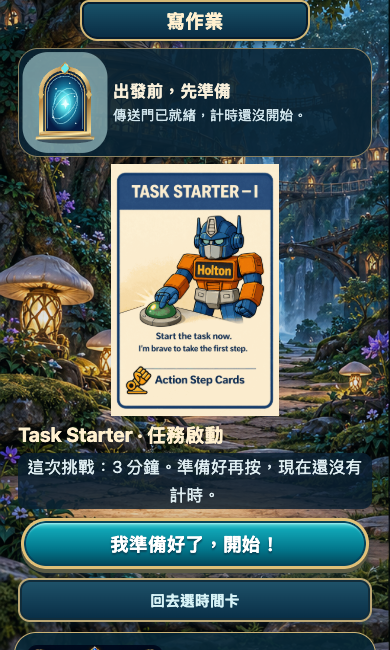
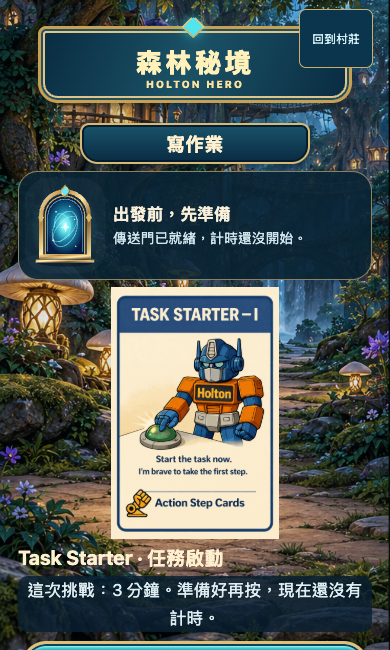
fix(onboarding): confirm skip and retain village resume [actor:bot approval:23140]

diff --git a/src/SpotlightGuide.tsx b/src/SpotlightGuide.tsx
@@ -4,10 +4,10 @@ import AsyncStorage from '@react-native-async-storage/async-storage';
 import {MUSIC_HINT_KEY} from './TaskMusicHint';
 import {createPortal} from 'react-dom';
 export const GUIDE_KEY='holton-guardian-app::spotlight-v1';
-type GuideStore={main:boolean;companions:boolean;wishes:boolean;parent:boolean;companionTap?:boolean;music?:boolean};
-export async function initializeGuide(fresh:boolean,force=false){
+type GuideStore={main:boolean;companions:boolean;wishes:boolean;parent:boolean;companionTap?:boolean;music?:boolean;mainSkipped?:boolean};
+export async function initializeGuide(fresh:boolean,force=false,mainSkipped=false){
  if(force)await AsyncStorage.removeItem(MUSIC_HINT_KEY);
- if(force||!await AsyncStorage.getItem(GUIDE_KEY))await AsyncStorage.setItem(GUIDE_KEY,JSON.stringify({main:!fresh,companions:!fresh,wishes:!fresh,parent:!fresh}));
+ if(force||!await AsyncStorage.getItem(GUIDE_KEY))await AsyncStorage.setItem(GUIDE_KEY,JSON.stringify({main:!fresh,companions:!fresh,wishes:!fresh,parent:!fresh,mainSkipped}));
 }
 type Step={selector:string;text:string;delay?:number;action?:'mission'|'picker';info?:boolean;passThrough?:boolean};
 const companionStep:Step={selector:'[data-testid="guardian-companion"] [data-testid="companion-reaction"]',text:'點點你的夥伴，看看他想跟你說什麼！他會用文字泡泡回應，做任務時也可以點他陪你一下。',delay:1400};
@@ -32,17 +32,21 @@ const rooms:Record<string,Step[]>={
  wishes:[{selector:'[data-testid="wish-guide-card"], [data-testid="wish-guide-empty"]',text:'這是心願卡與需要的點數。點數足夠時可以選取，最後確認才扣點；教學不會替你兌換。',info:true}],
  parent:[{selector:'[aria-label="任務與目標"]',text:'先點「任務與目標」看看設定。也能切換其他分類；重看操作教學在「偏好與舊卡」。',info:true,passThrough:true}],
 };
-export default function SpotlightGuide({allowed,room,replay,phase,pickerOpen,hasTask,onMission,onPicker,onMusicDone}:{allowed:boolean;room:string;replay:number;phase:string;pickerOpen:boolean;hasTask:boolean;onMission:()=>void;onPicker:()=>void;onMusicDone:()=>void}){
- const [store,setStore]=useState<GuideStore|null>(null),[mode,setMode]=useState<string|null>(null),[index,setIndex]=useState(0),[rect,setRect]=useState<DOMRect|null>(null),[size,setSize]=useState({w:0,h:0,top:0,left:0}),[notice,setNotice]=useState(''),[tipHeight,setTipHeight]=useState(180);
+export default function SpotlightGuide({allowed,room,replay,phase,pickerOpen,hasTask,onMission,onPicker,onMusicDone,onResumeChange}:{allowed:boolean;room:string;replay:number;phase:string;pickerOpen:boolean;hasTask:boolean;onMission:()=>void;onPicker:()=>void;onMusicDone:()=>void;onResumeChange:(available:boolean)=>void}){
+ const [store,setStore]=useState<GuideStore|null>(null),[mode,setMode]=useState<string|null>(null),[index,setIndex]=useState(0),[rect,setRect]=useState<DOMRect|null>(null),[size,setSize]=useState({w:0,h:0,top:0,left:0}),[notice,setNotice]=useState(''),[tipHeight,setTipHeight]=useState(180),[confirmSkip,setConfirmSkip]=useState(false);
  const target=useRef<HTMLElement|null>(null),tip=useRef<HTMLDivElement|null>(null),lastReplay=useRef(0),saveLock=useRef(false),advanceTimer=useRef<ReturnType<typeof setTimeout>|null>(null);
  const steps=mode==='main'?main:rooms[mode??'']??[];const step=steps[index];
  useEffect(()=>{if(Platform.OS==='web')void AsyncStorage.getItem(GUIDE_KEY).then(raw=>{if(raw)setStore({...JSON.parse(raw),...(replay>0?{companionTap:false,music:false}:{})})});},[]);
- useEffect(()=>{if(replay>0&&replay!==lastReplay.current){lastReplay.current=replay;setStore(old=>old?{...old,companionTap:false,music:false}:old);setMode('main');setIndex(0);setNotice('');}},[replay]);
+ useEffect(()=>{if(replay>0&&replay!==lastReplay.current){lastReplay.current=replay;setStore(old=>old?{...old,companionTap:false,music:false}:old);setMode('main');setIndex(phase==='preparing'?6:0);if(phase==='preparing')onMission();setNotice('');}},[replay]);
  useEffect(()=>{if(!allowed||!store||mode)return;if(room==='village'&&!store.main&&phase==='ready'){setIndex(0);setMode('main');}else if(room==='mission'&&store.main&&!store.companionTap&&(phase==='ready'||phase==='preparing')){setIndex(0);setMode('companionTap');}else if(rooms[room]&&!store[room as keyof GuideStore]){setIndex(0);setMode(room);}},[allowed,store,mode,room,phase]);
  useEffect(()=>{if(mode&&mode!=='main'&&room!==(mode==='companionTap'?'mission':mode)){setMode(null);setIndex(0);}},[room,mode]);
- const finish=async()=>{
+ useEffect(()=>{onResumeChange(!!store?.mainSkipped&&!mode);},[store?.mainSkipped,mode,onResumeChange]);
+ useEffect(()=>{setConfirmSkip(false);},[mode,index]);
+ useEffect(()=>{if(confirmSkip)tip.current?.querySelector('button')?.focus();},[confirmSkip]);
+ const requestSkip=()=>{if(advanceTimer.current){clearTimeout(advanceTimer.current);advanceTimer.current=null;}setConfirmSkip(true);};
+ const finish=async(skipped=false)=>{
   if(!mode||!store||saveLock.current)return;saveLock.current=true;
-  try{if(advanceTimer.current){clearTimeout(advanceTimer.current);advanceTimer.current=null;}const next={...store,[mode]:true,...(mode==='main'?{companionTap:true}:{})};await AsyncStorage.setItem(GUIDE_KEY,JSON.stringify(next));setStore(next);if(mode==='music')onMusicDone();setMode(null);setIndex(0);setNotice('');}
+  try{if(advanceTimer.current){clearTimeout(advanceTimer.current);advanceTimer.current=null;}const next={...store,[mode]:true,...(mode==='main'?{companionTap:true,mainSkipped:skipped}:{})};await AsyncStorage.setItem(GUIDE_KEY,JSON.stringify(next));setStore(next);setConfirmSkip(false);if(mode==='music')onMusicDone();setMode(null);setIndex(0);setNotice('');}
   catch{setNotice('教學紀錄尚未存好，請再按一次；遊戲進度沒有改變。');}
   finally{saveLock.current=false;}
  };
@@ -83,7 +87,7 @@ export default function SpotlightGuide({allowed,room,replay,phase,pickerOpen,has
   const permitted=(node:EventTarget|null)=>node instanceof Node&&(target.current?.contains(node)||tip.current?.contains(node));
   const click=(event:MouseEvent)=>{
    if(tip.current?.contains(event.target as Node))return;
-   if(!permitted(event.target)){event.preventDefault();event.stopImmediatePropagation();return;}
+   if(confirmSkip||!permitted(event.target)){event.preventDefault();event.stopImmediatePropagation();return;}
    const button=(event.target as HTMLElement).closest('[role="button"],button');
    if(button?.getAttribute('aria-disabled')==='true'||button?.hasAttribute('disabled'))return;
    if(step.info){if(!step.passThrough){event.preventDefault();event.stopImmediatePropagation();}else if(!button)return;advance();return;}
@@ -94,15 +98,15 @@ export default function SpotlightGuide({allowed,room,replay,phase,pickerOpen,has
    advanceTimer.current=setTimeout(()=>{advanceTimer.current=null;advance();},step.delay??0);
   };
   const key=(event:KeyboardEvent)=>{
-   if(event.key==='Escape'){event.preventDefault();void finish();return;}
+   if(event.key==='Escape'){event.preventDefault();event.stopImmediatePropagation();if(confirmSkip)setConfirmSkip(false);else requestSkip();return;}
    if(event.key==='Tab'){
-    const elements=[...(target.current?.matches('[role="button"],button')?[target.current]:Array.from(target.current?.querySelectorAll<HTMLElement>('[role="button"],button,input')??[])),...Array.from(tip.current?.querySelectorAll<HTMLElement>('button')??[])].filter(e=>e.getAttribute('aria-disabled')!=='true'&&!e.hasAttribute('disabled'));
+    const elements=[...(!confirmSkip&&target.current?.matches('[role="button"],button')?[target.current]:Array.from(!confirmSkip?target.current?.querySelectorAll<HTMLElement>('[role="button"],button,input')??[]:[])),...Array.from(tip.current?.querySelectorAll<HTMLElement>('button')??[])].filter(e=>e.getAttribute('aria-disabled')!=='true'&&!e.hasAttribute('disabled'));
     if(elements.length){event.preventDefault();const at=elements.indexOf(document.activeElement as HTMLElement);elements[(at+(event.shiftKey?-1:1)+elements.length)%elements.length].focus();}
    }else if((event.key==='Enter'||event.key===' ')&&!permitted(event.target)){event.preventDefault();event.stopImmediatePropagation();tip.current?.focus();}
   };
   document.addEventListener('click',click,true);document.addEventListener('keydown',key,true);
   return()=>{document.removeEventListener('click',click,true);document.removeEventListener('keydown',key,true);};
- },[active,step,index,mode,store,onMission,onPicker]);
+ },[active,step,index,mode,store,confirmSkip,onMission,onPicker]);
  if(Platform.OS!=='web'||!active)return null;
  const w=size.w||window.innerWidth,h=size.h||window.innerHeight,viewTop=size.top,viewBottom=viewTop+h,viewLeft=size.left,viewRight=viewLeft+w,layoutW=window.innerWidth;
  const r=rect?{left:Math.max(viewLeft,Math.min(viewRight,rect.left-5)),right:Math.max(viewLeft,Math.min(viewRight,rect.right+5)),top:Math.min(viewBottom,Math.max(viewTop,rect.top-5)),bottom:Math.max(viewTop,Math.min(viewBottom,rect.bottom+5))}:{left:0,right:0,top:0,bottom:0};
@@ -118,10 +122,12 @@ export default function SpotlightGuide({allowed,room,replay,phase,pickerOpen,has
   <div style={{...shade,left:0,top:r.top,width:r.left,height:r.bottom-r.top}}/><div style={{...shade,left:r.right,top:r.top,width:Math.max(0,layoutW-r.right),height:r.bottom-r.top}}/>
   {rect?<div data-testid="spotlight-hole" style={{position:'fixed',left:r.left,top:r.top,width:r.right-r.left,height:r.bottom-r.top,border:'3px solid #ffe2a0',borderRadius:14,boxSizing:'border-box',boxShadow:'0 0 22px #f7c55977'}}/>:null}
   <div ref={tip} tabIndex={-1} role="dialog" aria-label="操作教學" aria-live="polite" data-testid="spotlight-tip" style={{position:'fixed',pointerEvents:'auto',left:tipLeft,top:tipTop,width:tipWidth,maxHeight:Math.max(80,viewBottom-tipTop-8),overflowY:'auto',boxSizing:'border-box',background:'#0b3046',color:'#fff0c9',border:'1px solid #e0bd75',borderRadius:16,padding:14,boxShadow:'0 8px 30px #0008'}}>
+   {confirmSkip?<><h2 style={{fontSize:20,margin:'0 0 8px'}}>✨ 想先自己探索嗎？</h2><p style={{fontSize:16,lineHeight:1.55}}>教學還沒結束喔！繼續跟著操作，認識更多功能，讓第一次冒險更順手。也可以先自己試試看。</p><p style={{fontSize:13,lineHeight:1.5}}>之後想再看，可以到「家長小屋 → 偏好與舊卡 → 重新觀看操作教學」。</p>{notice?<p role="alert">{notice}</p>:null}<div style={{display:'flex',flexDirection:'column',gap:8}}><button style={buttonStyle} onClick={()=>setConfirmSkip(false)}>繼續帶我玩</button><button style={{...buttonStyle,background:'transparent'}} onClick={()=>void finish(true)}>先自己探索</button></div></>:<>
    <div style={{fontSize:13,color:'#e2c682'}}>操作教學 · {index+1}／{steps.length}</div>
    <p style={{fontSize:16,lineHeight:1.55,margin:'7px 0 10px'}}>{rect?step.text:'正在定位操作位置…'}</p>
    {notice?<p role="alert">{notice}</p>:null}
-   <div style={{display:'flex',gap:10,justifyContent:'flex-end'}}><button style={{...buttonStyle,background:'transparent'}} onClick={()=>void finish()}>略過教學</button>{step.info?<button style={buttonStyle} onClick={advance}>{mode==='main'?'完成教學，先不開始':'知道了'}</button>:null}</div>
+   <div style={{display:'flex',gap:10,justifyContent:'flex-end'}}><button style={{...buttonStyle,background:'transparent'}} onClick={requestSkip}>略過教學</button>{step.info?<button style={buttonStyle} onClick={advance}>{mode==='main'?'完成教學，先不開始':'知道了'}</button>:null}</div>
+   </>}
   </div>
  </div>,document.body);
 }

diff --git a/src/LightApp.tsx b/src/LightApp.tsx
@@ -110,6 +110,7 @@ export default function LightApp() {
   const [parentGateTab,setParentGateTab]=useState<typeof parentTab|null>(null);
   const [introReplay,setIntroReplay]=useState(false);
   const [tutorialReplay,setTutorialReplay]=useState(0);
+  const [resumeTutorial,setResumeTutorial]=useState(false);
   const [freshTutorial,setFreshTutorial]=useState(false);
   const [worldExchangeOpen, setWorldExchangeOpen] = useState(false);
   const [collectionOpen, setCollectionOpen] = useState(false);
@@ -305,7 +306,7 @@ export default function LightApp() {
   }
   async function finishGuide(start:boolean,name?:string) {
     if((current.current?.onboardingDone===false||name!==undefined)&&!await change(s=>({...s,onboardingDone:true,...(name!==undefined?{childName:normalizeChildName(name)}:{})}))) return;
-    setIntroReplay(false);if(freshTutorial){if(!start){await initializeGuide(false,true);setTutorialReplay(-1);}setFreshTutorial(false);navigateRoom('village');if(start)setTutorialReplay(n=>Math.abs(n)+1);}else if(start)await startFromVillage();
+    setIntroReplay(false);if(freshTutorial){if(!start){await initializeGuide(false,true,true);setTutorialReplay(-1);}setFreshTutorial(false);navigateRoom('village');if(start)setTutorialReplay(n=>Math.abs(n)+1);}else if(start)await startFromVillage();
   }
   async function replaceProgress(snapshot:FamilySnapshot|null):Promise<boolean> {
     const old=current.current;
@@ -355,6 +356,7 @@ export default function LightApp() {
     <View testID="world-title" style={styles.header}><View style={{flex:1}}>{roomTitle?<Text testID={focusActive?"focus-world-name":undefined} style={[styles.worldName,focusActive&&{fontSize:24,lineHeight:32,letterSpacing:1}]}>{roomTitle}</Text>:null}<Text testID="holton-brand-title" style={inVillage?[styles.brand,{fontSize:24,fontWeight:'800'}]:styles.brand}>HOLTON HERO</Text></View>{!inVillage?<Pressable accessibilityRole="button" accessibilityLabel={settingsOpen&&parentReturn==='wishes'?'回到心願小屋':settingsOpen&&parentReturn==='mission'?'回到任務':'回到村莊'} style={{padding:12}} onPress={()=>navigateRoom(settingsOpen?parentReturn:'village')}><Text style={styles.link}>{settingsOpen&&parentReturn==='wishes'?'回心願小屋':settingsOpen&&parentReturn==='mission'?'回到任務':'回到村莊'}</Text></Pressable>:null}</View>
     {error ? <Text accessibilityRole="alert" style={styles.error}>{error}</Text> : null}
     {soundBlocked&&state.phase==='active'&&state.taskSoundEnabled!==false?<View style={styles.card}><Text style={styles.caption}>時間到了。裝置未能自動播放聲音。</Text>{button('播放到時提示音',()=>{armChime();setTimeout(()=>void playChime().then(ok=>setSoundBlocked(!ok)),100);},true)}</View>:null}
+    {inVillage&&resumeTutorial&&(homePhase||state.phase==='preparing')?button('繼續新手教學',()=>{void (async()=>{if(state.phase==='done'&&!await change(s=>({...s,phase:'ready',deadline:null,help:false,remaining:s.minutes*60})))return;setTutorialReplay(n=>Math.abs(n)+1);})();},true):null}
     {inVillage?<AdventureVillage childName={normalizeChildName(state.childName)} reduced={reduceMotion} orbs={state.orbs} world={worlds[world].name} steps={journey.counts[world]} today={today.length} goal={state.dailyGoal??3} task={state.title} ongoing={!homePhase} saving={saving} onStart={()=>void startFromVillage()} onVisit={place=>{if(place==='map')setMapOpen(true);else if(place==='parent')openParent();else navigateRoom(place);}}/>:null}
     {!settingsOpen&&homePhase&&room==='mission'?<><View style={{flexDirection:'row',justifyContent:'space-between',gap:8}}>{button('冒險地圖',()=>setMapOpen(true),true)}{button('看看我的旅程',()=>setJourneyOpen(true),true)}</View>{state.phase==='ready'?<View style={{gap:8}}>{journey.counts[world]===0?<Text style={[styles.body,{padding:12,backgroundColor:'rgba(8,35,49,.7)',borderRadius:14}]}>{worlds[world].intro}</Text>:null}<JourneyHint journeys={journey} world={world} onPress={()=>setJourneyOpen(true)}/></View>:null}</>:null}
 
@@ -476,7 +478,7 @@ export default function LightApp() {
       {!settingsOpen && showWorldAlbum && !!state.collection?.length ? <View style={styles.card}><Text style={styles.section}>我的世界卡</Text><Text style={styles.body}>{exchangePlan.blocked ? '今天已兌換，新卡留到明天。' : `目前可換 ＋${exchangePlan.points} 能量球`}</Text>{button('查看兌換明細', () => setWorldExchangeOpen(true), true)}<ScrollView horizontal contentContainerStyle={styles.deck}>{state.collection.map(item => { const card = worldEvents.find(c => c.id === item.cardId); return card ? <View key={item.id} style={styles.taskCard}><Image source={card.imageSource} accessibilityLabel={card.title} resizeMode="contain" style={styles.cardArt} /><Text style={styles.cardName}>{card.title}</Text><Text style={styles.caption}>{item.redeemedAt ? '✓ 已兌換 · 保留收藏' : worldRewardLabel(item.cardId)}</Text></View> : null; })}</ScrollView></View> : null}
   </ScrollView>
     <WelcomeGuide childName={normalizeChildName(state.childName)} askName={state.onboardingDone===false} error={error} visible={(state.onboardingDone===false||introReplay)&&homePhase&&!pending&&!challenge} busy={saving} onClose={(start,name)=>void finishGuide(start,name)}/>
-    <SpotlightGuide key={`guide-${tutorialReplay}`} allowed={!freshTutorial&&state.onboardingDone!==false&&!introReplay&&!pending&&!challenge&&!journey.event&&parentGateTab===null&&!collectionOpen&&!worldExchangeOpen&&(settingsOpen||state.phase==='ready'||state.phase==='preparing')} room={settingsOpen?(parentTab==='music'?'music':'parent'):room} replay={tutorialReplay} phase={state.phase} pickerOpen={taskPickerOpen} hasTask={!!state.title} onMission={()=>navigateRoom('mission')} onPicker={()=>{setDetailCustom(false);setTaskPickerOpen(true);}} onMusicDone={music.stopPreview}/>
+    <SpotlightGuide key={`guide-${tutorialReplay}`} allowed={!freshTutorial&&state.onboardingDone!==false&&!introReplay&&!pending&&!challenge&&!journey.event&&parentGateTab===null&&!collectionOpen&&!worldExchangeOpen&&(settingsOpen||state.phase==='ready'||state.phase==='preparing')} room={settingsOpen?(parentTab==='music'?'music':'parent'):room} replay={tutorialReplay} phase={state.phase} pickerOpen={taskPickerOpen} hasTask={!!state.title} onMission={()=>navigateRoom('mission')} onPicker={()=>{setDetailCustom(false);setTaskPickerOpen(true);}} onMusicDone={music.stopPreview} onResumeChange={setResumeTutorial}/>
     <ParentPinGate visible={changePin} change onConfirm={()=>setChangePin(false)} onCancel={()=>setChangePin(false)}/>
     <ParentGate visible={parentGateTab!==null} onCancel={()=>setParentGateTab(null)} onConfirm={()=>parentGateTab&&enterParent(parentGateTab)}/>
     <Modal visible={!!journey.event && !pending && !challenge && !settingsOpen && homePhase} transparent animationType={reduceMotion?'none':'fade'} onRequestClose={dismissStory}>{journey.event?<JourneyReveal event={journey.event} reduced={reduceMotion} onDismiss={dismissStory} saving={saving}/>:null}{error?<Text accessibilityRole="alert" style={styles.error}>{error}</Text>:null}</Modal>

diff --git a/src/FamilyTools.tsx b/src/FamilyTools.tsx
@@ -4,14 +4,15 @@ import {ChildNameInput,normalizeChildName} from './ChildProfile';
 import {BACKUP_LIMIT,backupSummary,createBackup,parseBackup,weeklyFootprints,type Backup,type FamilySnapshot} from './lib/familyBackup';
 function Action({label,onPress,disabled=false}:{label:string;onPress:()=>void;disabled?:boolean}){return <Pressable accessibilityRole="button" accessibilityLabel={label} disabled={disabled} onPress={onPress} style={[s.button,disabled&&{opacity:.4}]}><Text style={s.buttonText}>{label}</Text></Pressable>;}
 export function WelcomeGuide({visible,busy,error,onClose,childName='',askName=false}:{visible:boolean;busy:boolean;error:string;childName?:string;askName?:boolean;onClose:(start:boolean,name?:string)=>void}) {
- const [name,setName]=useState(childName),[nameStep,setNameStep]=useState(askName);
- useEffect(()=>{if(visible){setName(childName);setNameStep(askName);}},[visible,childName,askName]);
+ const [name,setName]=useState(childName),[nameStep,setNameStep]=useState(askName),[confirmSkip,setConfirmSkip]=useState(false);
+ useEffect(()=>{if(visible){setName(childName);setNameStep(askName);setConfirmSkip(false);}},[visible,childName,askName]);
  const close=(start:boolean)=>onClose(start,askName?normalizeChildName(name):undefined);
- if(visible&&nameStep)return <Modal visible transparent animationType="fade" onRequestClose={()=>!busy&&close(false)}><View style={s.overlay}><ScrollView keyboardShouldPersistTaps="handled" contentContainerStyle={s.modalScroll}><View testID="welcome-name" style={s.panel}><Text style={s.title}>我們怎麼稱呼小冒險家？</Text><ChildNameInput value={name} onChange={setName} busy={busy}/><Text style={s.note}>之後也能到「家長小屋 → 小朋友資料」修改。</Text>{error?<Text accessibilityRole="alert" style={s.note}>{error}</Text>:null}<Action label="繼續新手帶領" onPress={()=>setNameStep(false)} disabled={busy}/><Action label="先跳過命名" onPress={()=>{setName('');setNameStep(false);}} disabled={busy}/></View></ScrollView></View></Modal>;
- return <Modal visible={visible} transparent animationType="fade" onRequestClose={()=>!busy&&close(false)}><View style={s.overlay}><ScrollView contentContainerStyle={s.modalScroll}><View testID="welcome-guide" style={s.panel}>
+ if(visible&&confirmSkip)return <Modal visible transparent animationType="fade" onRequestClose={()=>!busy&&setConfirmSkip(false)}><View style={s.overlay}><ScrollView contentContainerStyle={s.modalScroll}><View testID="welcome-skip-confirm" style={s.panel}><Text style={s.title}>✨ 想先自己探索嗎？</Text><Text style={s.text}>教學還沒結束喔！接下來還會帶你認識其他功能，讓第一次冒險更順手。你可以繼續跟著操作，也可以先自己試試看。</Text><Text style={s.note}>之後想再看，可以到「家長小屋 → 偏好與舊卡 → 重新觀看操作教學」。</Text>{error?<Text accessibilityRole="alert" style={s.note}>{error}</Text>:null}<Action label="繼續帶我玩" onPress={()=>setConfirmSkip(false)} disabled={busy}/><Action label="先自己探索" onPress={()=>close(false)} disabled={busy}/></View></ScrollView></View></Modal>;
+ if(visible&&nameStep)return <Modal visible transparent animationType="fade" onRequestClose={()=>!busy&&setConfirmSkip(true)}><View style={s.overlay}><ScrollView keyboardShouldPersistTaps="handled" contentContainerStyle={s.modalScroll}><View testID="welcome-name" style={s.panel}><Text style={s.title}>我們怎麼稱呼小冒險家？</Text><ChildNameInput value={name} onChange={setName} busy={busy}/><Text style={s.note}>之後也能到「家長小屋 → 小朋友資料」修改。</Text>{error?<Text accessibilityRole="alert" style={s.note}>{error}</Text>:null}<Action label="繼續新手帶領" onPress={()=>setNameStep(false)} disabled={busy}/><Action label="先跳過命名" onPress={()=>{setName('');setNameStep(false);}} disabled={busy}/></View></ScrollView></View></Modal>;
+ return <Modal visible={visible} transparent animationType="fade" onRequestClose={()=>!busy&&setConfirmSkip(true)}><View style={s.overlay}><ScrollView contentContainerStyle={s.modalScroll}><View testID="welcome-guide" style={s.panel}>
  <Text style={s.title}>一起開始第一個小冒險</Text><Text style={s.text}>不用先設定一大堆，從一件小事開始。</Text>
  {[['① 選一件小事','收玩具、閱讀或寫作業，選今天做得到的一步。'],['② 和夥伴一起完成','準備好再開始；卡住可以求助、休息，不扣點。'],['③ 累積能量，實現心願','完成並收尾後獲得能量球，再到心願小屋看看。']].map(([title,note])=><View key={title} style={s.row}><Text style={s.section}>{title}</Text><Text style={s.text}>{note}</Text></View>)}
- <Text style={s.note}>預設每日目標 3 次，心願點數已填好。家長之後都能調整。</Text>{error?<Text accessibilityRole="alert" style={s.note}>{error}</Text>:null}<Action label="選我的第一個任務" onPress={()=>close(true)} disabled={busy}/><Action label="先逛村莊，跳過說明" onPress={()=>close(false)} disabled={busy}/>
+ <Text style={s.note}>預設每日目標 3 次，心願點數已填好。家長之後都能調整。</Text>{error?<Text accessibilityRole="alert" style={s.note}>{error}</Text>:null}<Action label="選我的第一個任務" onPress={()=>close(true)} disabled={busy}/><Action label="先逛村莊，跳過說明" onPress={()=>setConfirmSkip(true)} disabled={busy}/>
  </View></ScrollView></View></Modal>;
 }
 export {ParentPinGate as ParentGate} from './ParentPinGate';

diff --git a/reports/trial-lock/SKIP-CONFIRM.md b/reports/trial-lock/SKIP-CONFIRM.md
@@ -1,0 +1,12 @@
+# Tutorial skip confirmation
+
+Requested by Jerry, Telegram 23140 (2026-10-22).
+
+- Welcome skip/back and spotlight skip/Escape require one confirmation.
+- Continue returns to the same lesson; Escape cancels confirmation.
+- Explicit exploration saves a separate mainSkipped marker, not game progress.
+- Village resume is shown only for newly recorded skipped main introductions, outside active tasks. Ready resumes the main walkthrough; preparing resumes the final start explanation without resetting or starting the task. Completed tasks use the existing replay ready transition.
+- Main completion clears the resume marker. Legacy completed stores remain unchanged.
+- Parent replay remains available. No PIN/auth/cloud/reward changes.
+
+Verification: npm run typecheck; npm run export:web; node reports/trial-lock/skip-confirm-check.mjs. Browser suite covers 320x568, 390x650, 844x390, 768x1024; welcome and spotlight confirmation/cancel, Escape, persisted resume after reload, preparing resume, completion removal, full main/companion/music flow, unchanged balance, no premature timer. Browser simulation, not physical iPhone testing.
